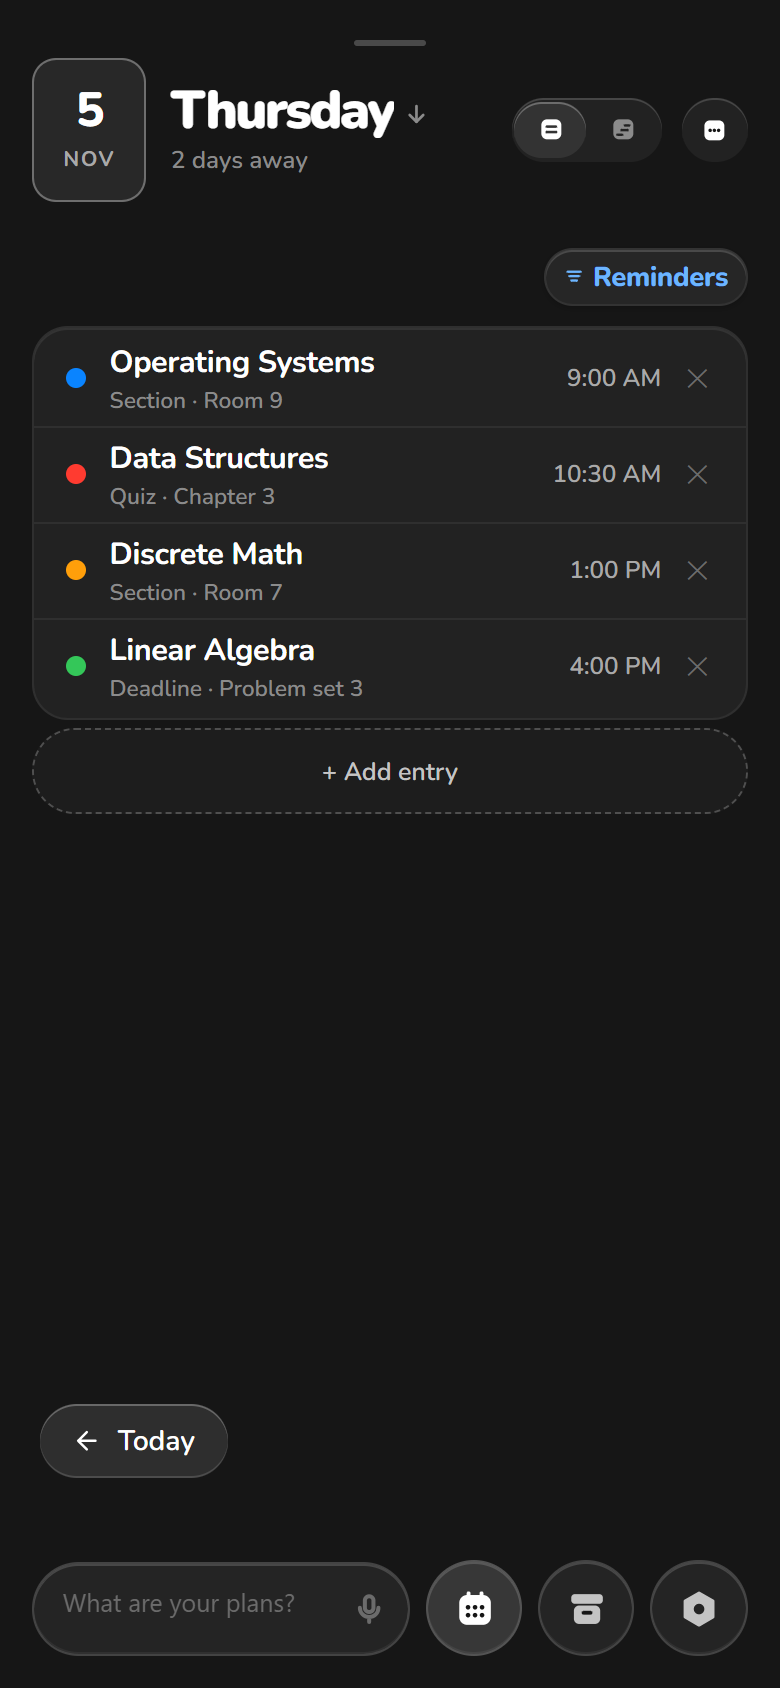
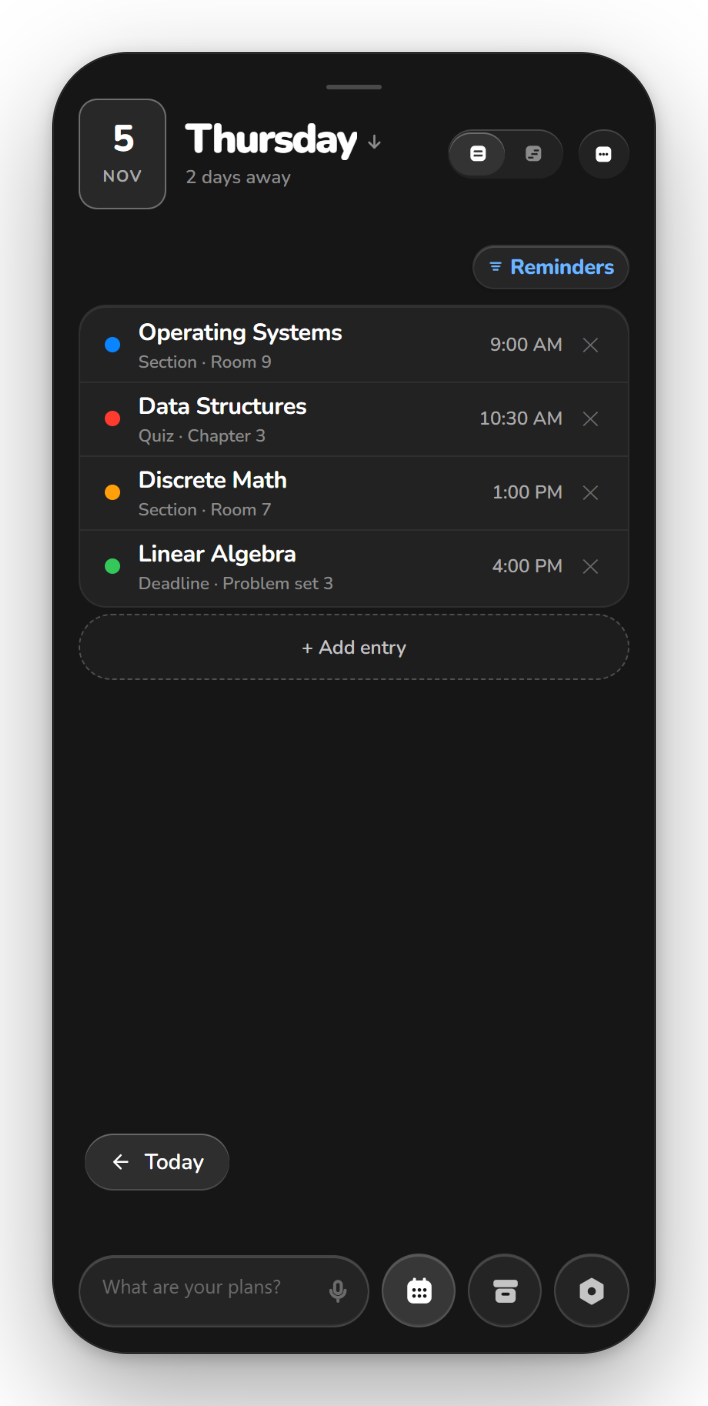
docs: frame the README screenshots as subtle device shots

diff --git a/README.md b/README.md
@@ -34,11 +34,11 @@ margins, and everything that matters a tap away.
 
 <div align="center">
 
-<img src="assets/screen-month.png" alt="The month view" width="30%">
-&nbsp;&nbsp;&nbsp;
-<img src="assets/screen-day.png" alt="A day at a glance" width="30%">
-&nbsp;&nbsp;&nbsp;
-<img src="assets/screen-themes.png" alt="Appearance and themes" width="30%">
+<img src="assets/screen-month.png" alt="The month view" width="31%">
+&nbsp;&nbsp;
+<img src="assets/screen-day.png" alt="A day at a glance" width="31%">
+&nbsp;&nbsp;
+<img src="assets/screen-themes.png" alt="Appearance and themes" width="31%">
 
 <sub><b>Month</b> &nbsp;·&nbsp; <b>Day</b> &nbsp;·&nbsp; <b>Appearance</b></sub>
 
